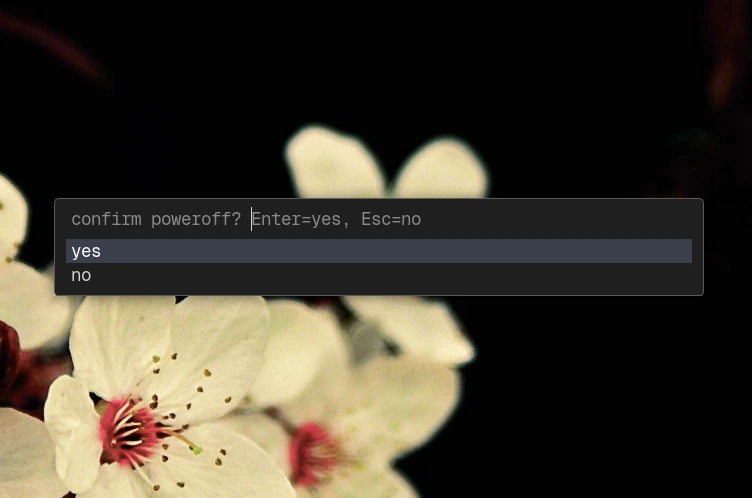
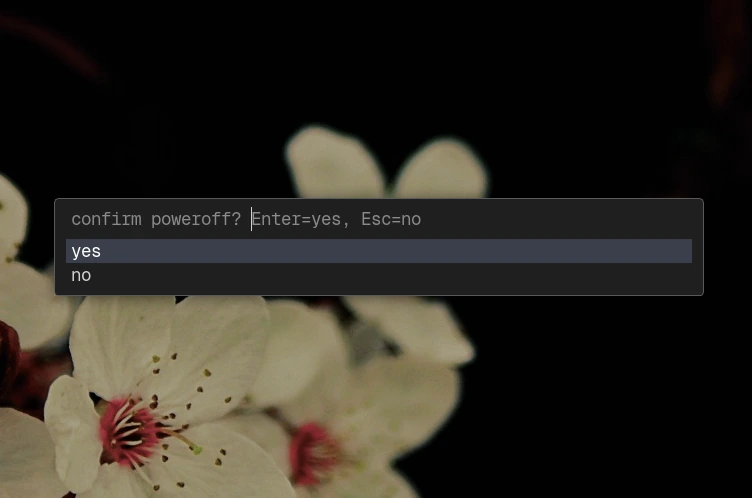
fix(pickers): dim the confirmation menus

Changed region(s): [[0.0, 0.3614, 0.6423, 1.0], [0.367, 0.241, 0.6729, 0.4217]]

diff --git a/docs/pickers.md b/docs/pickers.md
@@ -1,8 +1,8 @@
 # Pickers
 
 Press `$mod+d` to open the application launcher: fuzzel on `thinkpad` and rofi
-on `optiplex`. On `thinkpad`, the rest of the screen is dim while the launcher
-is open. Press `$mod+d` again to close the launcher.
+on `optiplex`. On `thinkpad`, the rest of the screen dims behind the launcher
+and the confirmation menus. Press `$mod+d` again to close the launcher.
 
 <div class="image-pair">
   <figure>
